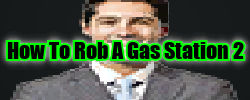
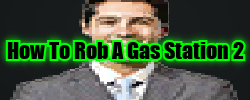
Add Kill The Popups page

Changed region(s): [[0.0, 0.36, 1.0, 0.66]]

diff --git a/games/kta.html b/games/kta.html
@@ -1,0 +1,34 @@
+<!DOCTYPE html>
+<html lang="en_US">
+    <head>
+        <title>Kill The Popups</title>
+        <link rel="stylesheet" href="../stylesheet.css">
+    </head>
+    <body>
+        <div class="content kta">
+            <a href="../index.html"><img src="../images/logo.png" alt="POtO Software Logo" class="logo"></a>
+            <section class="top-banner">
+                <h1>Kill The Popups</h1>
+            </section>
+            <h2 class="center">Web</h2>
+            <h2 class="center">$Free</h2>
+            <p>A simple high score based browser game</p>
+            <p>Close the popups with the X and don't you DARE click ON THE POPUP!!!</p>
+            <p>Fun time waster I suppose. Kinda a one off thing I made in 2 days</p>
+            <br>
+            <p>To be honest I almost didn't include this one here</p>
+            <p>But myeh, that would've been rude</p>
+            <div class="center">
+                <br>
+                <h2>Screenshot</h2>
+                <img src="../images/kta/screenshot.png" alt="A screenshot of the game">
+                <p>It takes like 5 seconds to play just <a href="https://poto-software.itch.io/none-left">GO!</a></p>
+                <p>Or go mess with the <a href="https://github.com/POtOSoftware/kill-the-popups">source code</a> cause it's open source too!</p>
+                <br><br><br><br>
+                <p>P.S. There was a secret Android version for the Rune app, but they removed it when the platform pivoted to multiplayer games</p>
+                <p>Still cool to say I was one of the first developers to publish a game there (It was done through a Google Form!!)</p>
+            </div>
+            <p><a href="../games/games-root.html">Go back</a></p>
+        </div>
+    </body>
+</html>

diff --git a/games/games-root.html b/games/games-root.html
@@ -32,6 +32,12 @@
                     onmouseout="this.src='../images/htrags/button-normal.png'" 
                     alt="How To Rob A Gas Station">
                 </a>
+                <a href="kta.html">
+                    <img src="../images/kta/button-normal.png" 
+                    onmouseover="this.src='../images/kta/button-hover.png'" 
+                    onmouseout="this.src='../images/kta/button-normal.png'" 
+                    alt="Kill The Popups">
+                </a>
                 <a href="htrags-2.html">
                     <img src="../images/htrags-2/button-normal.png" 
                     onmouseover="this.src='../images/htrags-2/button-hover.png'" 

diff --git a/stylesheet.css b/stylesheet.css
@@ -26,16 +26,22 @@ body
 	margin-bottom: 50%;
 }
 
-.screenshots
-{
-	width: 450px;
-	height: 398px;
-}
-
 .none-left
 {
 	background-image: url("images/noneleft/background.png");
 	margin-bottom: 50%;
+}
+
+.kta
+{
+	background-image: url("images/kta/background.png");
+	margin-bottom: 50%;
+}
+
+.screenshots
+{
+	width: 450px;
+	height: 398px;
 }
 
 h1
@@ -110,5 +116,6 @@ a:active {
 .game-buttons
 {
 	display:block;
-	margin: 10px;
+	margin-left: 10%;
+	margin-right: 10%;
 }
